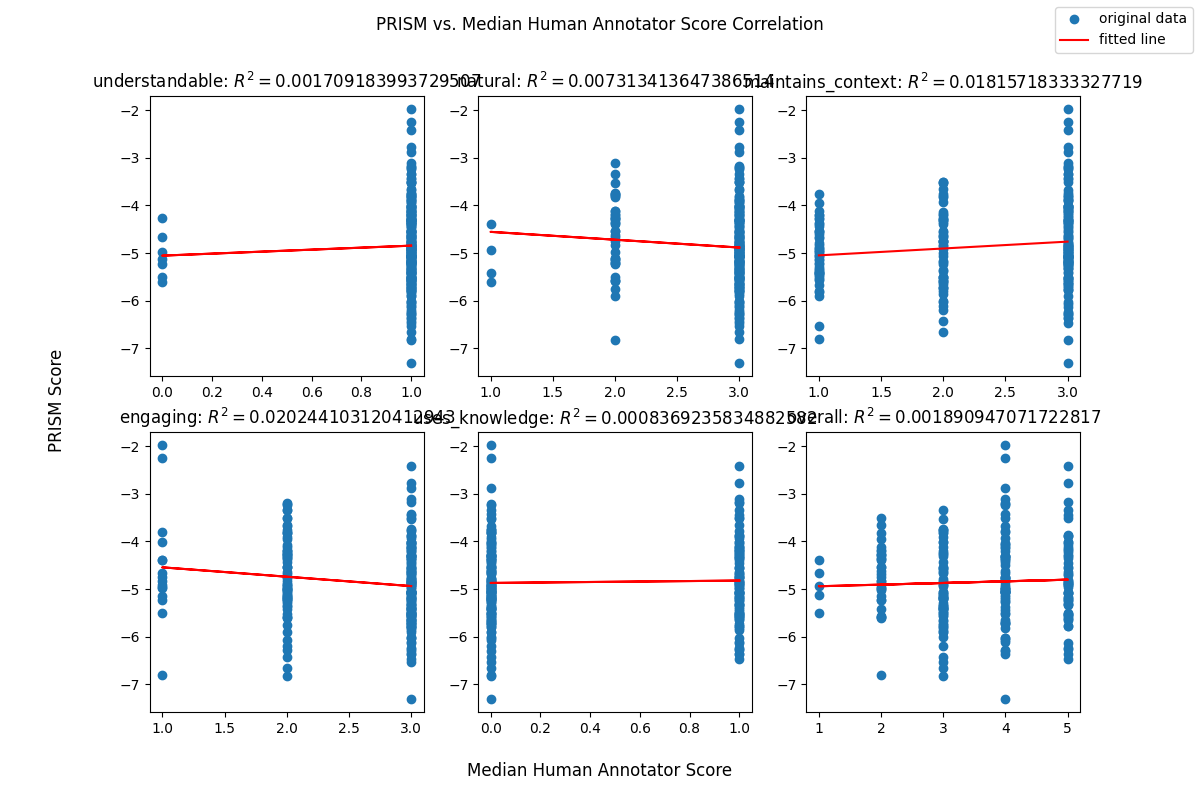
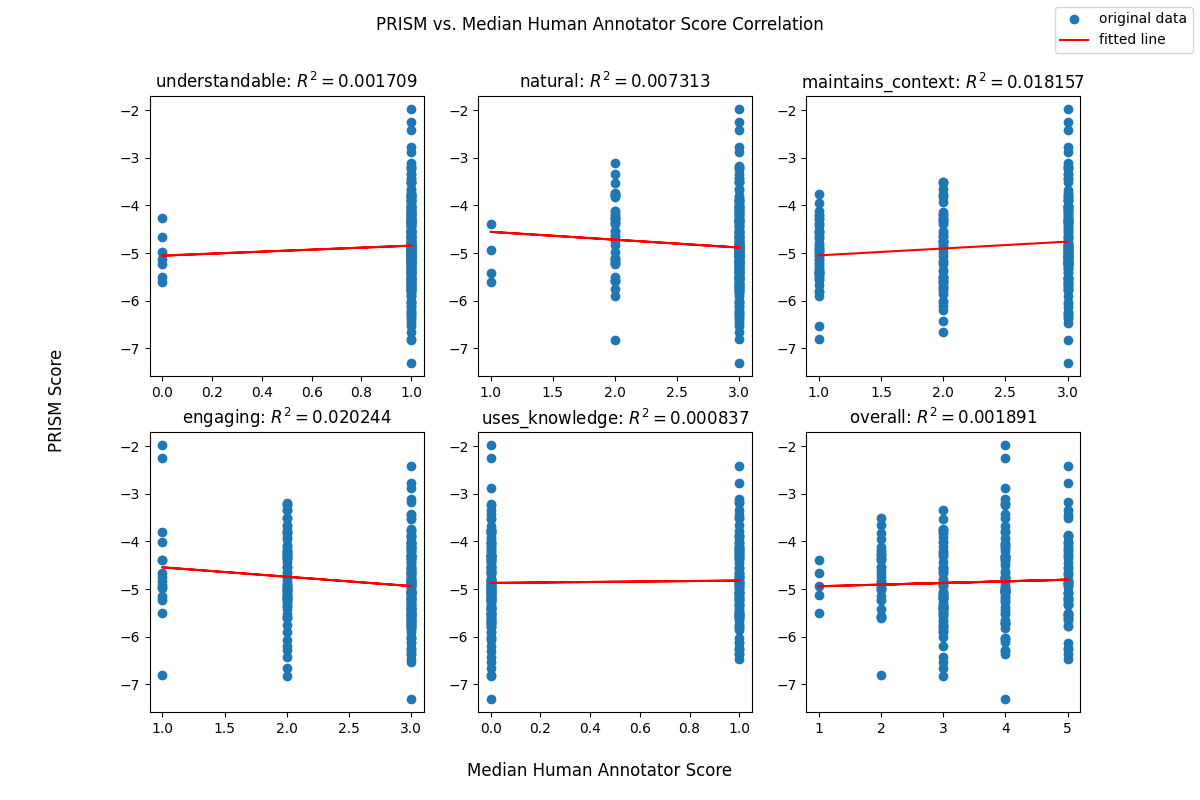
aesthetic changes to baseline plots

Changed region(s): [[0.0925, 0.0938, 0.9558, 0.125], [0.0925, 0.5, 0.925, 0.5312]]

diff --git a/baseline_scores.py b/baseline_scores.py
@@ -71,7 +71,7 @@ def plot_correlation(scores, plotdir):
         # plot
         ax[i].plot(quality_scores, prism_scores, 'o', label='original data')
         ax[i].plot(quality_scores, intercept + slope*quality_scores, 'r', label='fitted line')
-        ax[i].set_title(label='{0}: $R^2=${1}'.format(quality, str(r_value**2)))
+        ax[i].set_title(label='{0}: $R^2=${1}'.format(quality, str(round(r_value**2,6))))
     handles, labels = ax[i].get_legend_handles_labels()
     fig.legend(handles, labels, loc='upper right')
     fig.text(0.5, 0.03, 'Median Human Annotator Score', ha='center', fontsize=12)

diff --git a/README.md b/README.md
@@ -6,33 +6,37 @@ PRISM is available at: https://github.com/thompsonb/prism
 
 
 ## Table of Contents
-======================
+
 - `baseline_preprocess.py` usage
 - baseline data format
 
-## `baseline_preprocess.py` usage
-======================
-Usage: baseline_preprocess.py url outputdir
+#### `baseline_preprocess.py` usage
+
+Usage: `baseline_preprocess.py url outputdir`
 
 url is the web url to json-format file. Here we use two datasets for baseline metrics:
-  1. http://shikib.com/pc_usr_data.json
-  2. http://shikib.com/tc_usr_data.json
-outputdir is the output file directory (tab-separated format).
+  1. https://shikib.com/pc_usr_data.json
+  2. https://shikib.com/tc_usr_data.json
 
-## baseline data format
-=======================
+outputdir is the output file directory (tab-separated format). Example usage: `baseline_preprocess.py -u https://shikib.com/pc_usr_data.json -o ./pc_usr_data.tsv`  
+
+
+#### baseline data format
+
 Because PRISM accepts untokenized input, we use tab-separated value (TSV) format to store examples.
 Attributes:
-  * context
-  * fact
-  * ref: human reference
-  * cand: model-generated candidate utterance
-  * understandable: list of 3 human-annotated scores (0-1)
-  * natural: list of 3 human-annotated scores (1-3)
-  * maintains context: list of 3 human-annotated scores (1-3)
-  * engaging: list of 3 human-annotated scores (1-3)
-  * uses knowledge: list of 3 human-annotated scores (0-1)
-  * overall: list of 3 human-annotated scores (1-5)
+  * `context`
+  * `fact`
+  * `ref`: human reference
+  * `cand`: model-generated candidate utterance
+  * `understandable`: list of 3 human-annotated scores (0-1)
+  * `natural`: list of 3 human-annotated scores (1-3)
+  * `maintains_context`: list of 3 human-annotated scores (1-3)
+  * `engaging`: list of 3 human-annotated scores (1-3)
+  * `uses_knowledge`: list of 3 human-annotated scores (0-1)
+  * `overall`: list of 3 human-annotated scores (1-5)
 For more context on scores, refer to https://www.aclweb.org/anthology/2020.acl-main.64.pdf.
 Note: PRISM does not utilize context or fact. 
 
+#### `baseline_scores.py`
+Usage: datadir outputdir plotdir
